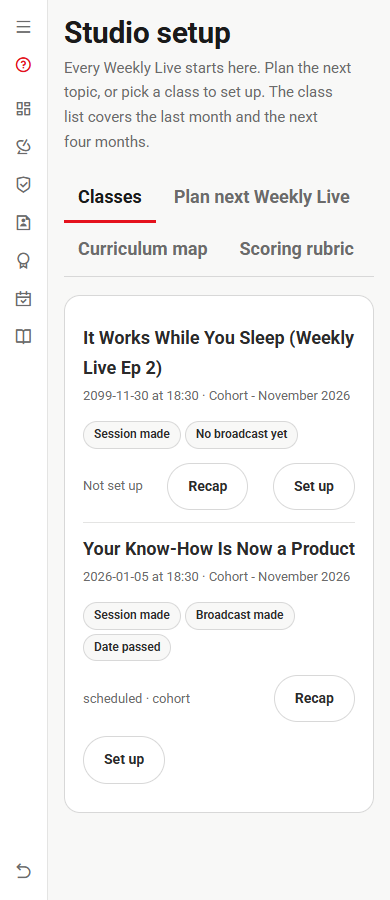
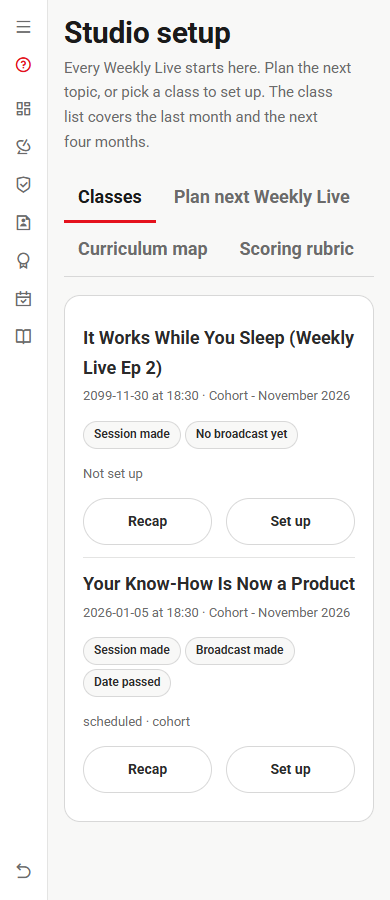
WL3.5: keep each class row's buttons on one line at phone width
Session: CC-20261124-iwlu

diff --git a/tests/systemV2/weeklyLiveStudio.e2e.js b/tests/systemV2/weeklyLiveStudio.e2e.js
@@ -82,6 +82,7 @@ async function main() {
       for (const tab of ['classes', 'plan', 'map', 'rubric']) {
         await page.click(`[data-testid="tab-${tab}"]`);
         await page.waitForTimeout(300);
+        if (tab === 'classes') check(`${at}: each row's buttons share a line`, await page.$$eval('.cls-row', (rows) => rows.length > 1 && rows.every((r) => new Set(Array.from(r.querySelectorAll('.cls-btn')).map((x) => Math.round(x.getBoundingClientRect().top))).size === 1)));
         if (tab === 'classes') check(`${at}: class list`, (await page.textContent('[data-testid="classes-panel"]')).includes('Weekly Live Ep 2'));
         if (tab === 'plan') {
           await page.waitForSelector('[data-testid="topic-5"]', { timeout: 10000 }).catch(() => null);

diff --git a/frontend/src/pages/admin/live/plan/plan.css b/frontend/src/pages/admin/live/plan/plan.css
@@ -79,5 +79,6 @@
   .clp-table td { border: 0; padding: 1px 0; }
   .clp-table tr { padding: 8px 0; border-bottom: 1px solid var(--border-subtle); }
   .cls-row { flex-wrap: wrap; }
-  .cls-row-main, .clp-pipe { flex: 1 1 100%; }
+  .cls-row-main, .clp-pipe, .cls-row > .cls-row-when { flex: 1 1 100%; }
+  .cls-row > .cls-btn { flex: 1 1 0; }
 }

diff --git a/docs/sessions/CC-20261124-iwlu.md b/docs/sessions/CC-20261124-iwlu.md
@@ -98,3 +98,8 @@ Weekly Live Studio. Earlier entries of this session are in the sealed PROGRESS.m
   - Date: 2026-11-25
   - What changed: changing the air date always clears the plan on screen, including on a first run when neither date has a plan; the earlier entry's claim that a start in flight could not land on another date was not yet true
   - Verification: four new tests; three fail on 50dda34e8 and pass now
+
+- [x] Weekly Live Studio WL3.5: passed grading; narrow class row fixed
+  - Date: 2026-11-25
+  - What changed: at phone width each class row keeps its buttons on one line; the attempt 2 fix did not work
+  - Verification: loop-task-verifier attempt 3, 11/12 at 2540d3f6e; browser run now measures the row
